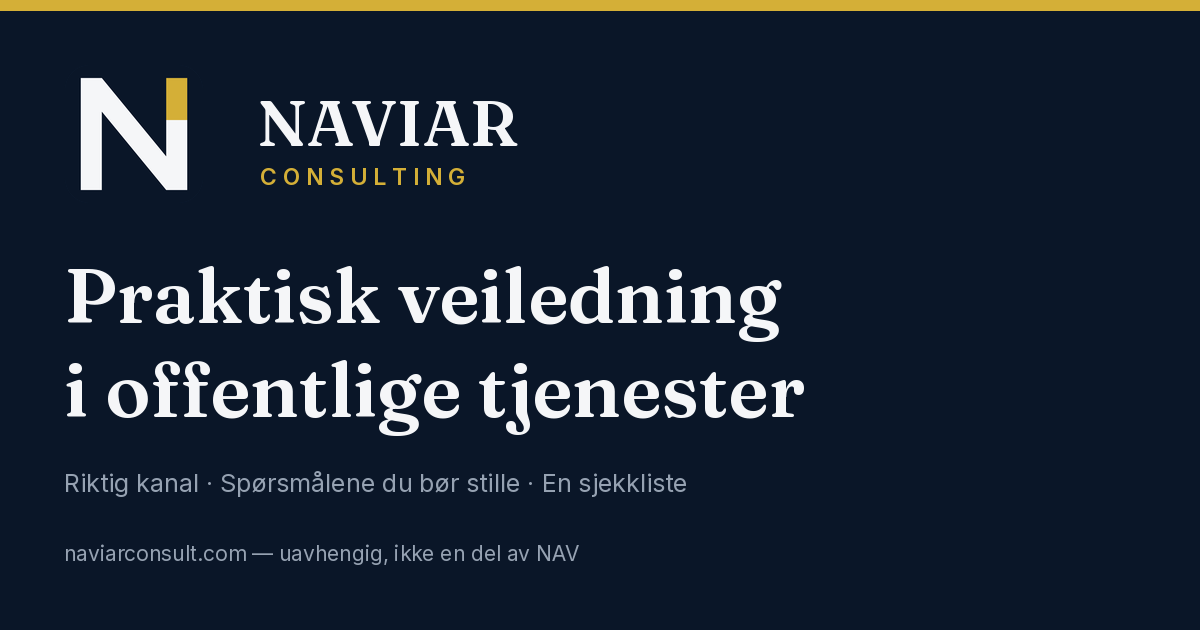
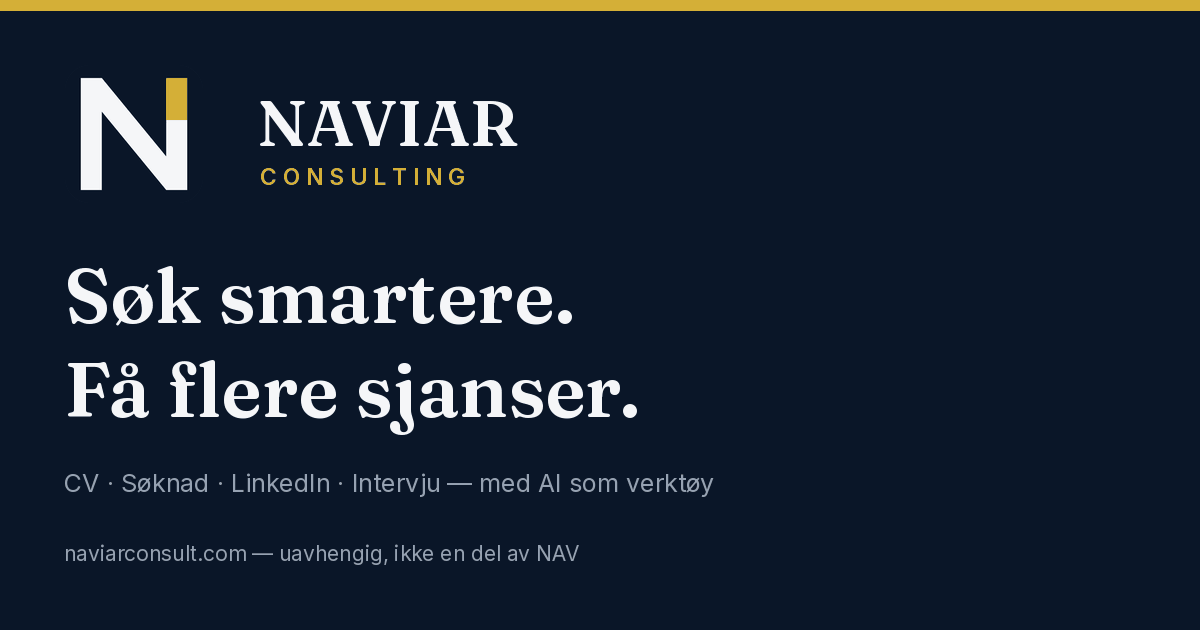
Update the share card to what the site now sells, and shrink the images
The Open Graph card still said "Praktisk veiledning i offentlige tjenester" —
the proposition from two pivots ago. Anyone sharing the link would have
advertised a service that is no longer sold. It now reads "Søk smartere. Få
flere sjanser." with CV, søknad, LinkedIn and intervju underneath, and the alt
text on all five pages says the same.

Every PNG is quantised to a small palette while regenerating: the artwork is
flat brand colour, so 64 colours is lossless to the eye and 147 KB of images
became 49 KB. That is a real page-weight win, not only a deploy convenience.

vercel.json adds X-Robots-Tag: noindex to every path, plus nosniff, a referrer
policy and SAMEORIGIN framing. The noindex must come off deliberately at launch
— nothing about this site should be in a search index while the org number is
still 000 000 000 and no lawyer has read the terms.

Changed region(s): [[0.0308, 0.573, 0.6783, 0.6937], [0.0308, 0.4222, 0.6475, 0.5429], [0.0308, 0.754, 0.6167, 0.7841]]

diff --git a/index.html b/index.html
@@ -14,12 +14,12 @@
 <meta property="og:image" content="https://naviarconsult.com/assets/og/og-image.png">
 <meta property="og:image:width" content="1200">
 <meta property="og:image:height" content="630">
-<meta property="og:image:alt" content="NAVIAR CONSULTING — praktisk veiledning i offentlige tjenester.">
+<meta property="og:image:alt" content="NAVIAR CONSULTING — søk smartere, få flere sjanser. CV, søknad, LinkedIn og intervju.">
 <meta name="twitter:card" content="summary_large_image">
 <meta name="twitter:title" content="NAVIAR — Praktisk veiledning i offentlige tjenester">
 <meta name="twitter:description" content="Riktig kanal, spørsmålene du bør stille og en sjekkliste. Start med en gratis omfangskontroll.">
 <meta name="twitter:image" content="https://naviarconsult.com/assets/og/twitter-image.png">
-<meta name="twitter:image:alt" content="NAVIAR CONSULTING — praktisk veiledning i offentlige tjenester.">
+<meta name="twitter:image:alt" content="NAVIAR CONSULTING — søk smartere, få flere sjanser. CV, søknad, LinkedIn og intervju.">
 <meta property="og:title" content="NAVIAR — Clarity in complex systems">
 <meta property="og:description" content="Vi gjør offentlige prosesser enklere. Send oss brevet — få en klar handlingsplan.">
 <link rel="preconnect" href="https://fonts.googleapis.com">

diff --git a/hva-vi-gjor.html b/hva-vi-gjor.html
@@ -13,12 +13,12 @@
 <meta property="og:image" content="https://naviarconsult.com/assets/og/og-image.png">
 <meta property="og:image:width" content="1200">
 <meta property="og:image:height" content="630">
-<meta property="og:image:alt" content="NAVIAR CONSULTING — praktisk veiledning i offentlige tjenester.">
+<meta property="og:image:alt" content="NAVIAR CONSULTING — søk smartere, få flere sjanser. CV, søknad, LinkedIn og intervju.">
 <meta name="twitter:card" content="summary_large_image">
 <meta name="twitter:title" content="Hva vi kan og ikke kan gjøre — NAVIAR">
 <meta name="twitter:description" content="Nøyaktig hvor grensen går for hva NAVIAR tar på seg.">
 <meta name="twitter:image" content="https://naviarconsult.com/assets/og/twitter-image.png">
-<meta name="twitter:image:alt" content="NAVIAR CONSULTING — praktisk veiledning i offentlige tjenester.">
+<meta name="twitter:image:alt" content="NAVIAR CONSULTING — søk smartere, få flere sjanser. CV, søknad, LinkedIn og intervju.">
 <link rel="canonical" href="https://naviarconsult.com/hva-vi-gjor.html">
 <meta name="description" content="NAVIAR gir praktisk veiledning. Her står det nøyaktig hva vi tar på oss, og hva vi aldri gjør — med henvisning til reglene som gjelder.">
 <meta name="theme-color" content="#0A1628">

diff --git a/karriere.html b/karriere.html
@@ -13,12 +13,12 @@
 <meta property="og:image" content="https://naviarconsult.com/assets/og/og-image.png">
 <meta property="og:image:width" content="1200">
 <meta property="og:image:height" content="630">
-<meta property="og:image:alt" content="NAVIAR CONSULTING — praktisk veiledning i offentlige tjenester.">
+<meta property="og:image:alt" content="NAVIAR CONSULTING — søk smartere, få flere sjanser. CV, søknad, LinkedIn og intervju.">
 <meta name="twitter:card" content="summary_large_image">
 <meta name="twitter:title" content="Karriere og AI — NAVIAR">
 <meta name="twitter:description" content="CV, søknad, LinkedIn og intervju — med AI som verktøy, ikke som autopilot.">
 <meta name="twitter:image" content="https://naviarconsult.com/assets/og/twitter-image.png">
-<meta name="twitter:image:alt" content="NAVIAR CONSULTING — praktisk veiledning i offentlige tjenester.">
+<meta name="twitter:image:alt" content="NAVIAR CONSULTING — søk smartere, få flere sjanser. CV, søknad, LinkedIn og intervju.">
 <link rel="canonical" href="https://naviarconsult.com/karriere.html">
 <meta name="description" content="CV, søknad, LinkedIn og intervju — med AI som verktøy, ikke som autopilot. Du godkjenner alltid teksten, og ingenting dikteres opp.">
 <meta name="theme-color" content="#0A1628">

diff --git a/personvern.html b/personvern.html
@@ -13,12 +13,12 @@
 <meta property="og:image" content="https://naviarconsult.com/assets/og/og-image.png">
 <meta property="og:image:width" content="1200">
 <meta property="og:image:height" content="630">
-<meta property="og:image:alt" content="NAVIAR CONSULTING — praktisk veiledning i offentlige tjenester.">
+<meta property="og:image:alt" content="NAVIAR CONSULTING — søk smartere, få flere sjanser. CV, søknad, LinkedIn og intervju.">
 <meta name="twitter:card" content="summary_large_image">
 <meta name="twitter:title" content="Personvernerklæring — NAVIAR">
 <meta name="twitter:description" content="Slik behandler NAVIAR personopplysningene dine.">
 <meta name="twitter:image" content="https://naviarconsult.com/assets/og/twitter-image.png">
-<meta name="twitter:image:alt" content="NAVIAR CONSULTING — praktisk veiledning i offentlige tjenester.">
+<meta name="twitter:image:alt" content="NAVIAR CONSULTING — søk smartere, få flere sjanser. CV, søknad, LinkedIn og intervju.">
 <link rel="canonical" href="https://naviarconsult.com/personvern.html">
 <meta name="description" content="Hvilke opplysninger NAVIAR samler inn, hvorfor, hvor lenge vi lagrer dem og hvilke rettigheter du har.">
 <meta name="theme-color" content="#0A1628">

diff --git a/vilkar.html b/vilkar.html
@@ -13,12 +13,12 @@
 <meta property="og:image" content="https://naviarconsult.com/assets/og/og-image.png">
 <meta property="og:image:width" content="1200">
 <meta property="og:image:height" content="630">
-<meta property="og:image:alt" content="NAVIAR CONSULTING — praktisk veiledning i offentlige tjenester.">
+<meta property="og:image:alt" content="NAVIAR CONSULTING — søk smartere, få flere sjanser. CV, søknad, LinkedIn og intervju.">
 <meta name="twitter:card" content="summary_large_image">
 <meta name="twitter:title" content="Vilkår — NAVIAR">
 <meta name="twitter:description" content="Vilkårene for NAVIARs tjenester.">
 <meta name="twitter:image" content="https://naviarconsult.com/assets/og/twitter-image.png">
-<meta name="twitter:image:alt" content="NAVIAR CONSULTING — praktisk veiledning i offentlige tjenester.">
+<meta name="twitter:image:alt" content="NAVIAR CONSULTING — søk smartere, få flere sjanser. CV, søknad, LinkedIn og intervju.">
 <link rel="canonical" href="https://naviarconsult.com/vilkar.html">
 <meta name="description" content="Vilkårene for NAVIARs tjenester: hva vi gjør og ikke gjør, priser, angrerett, ansvar og klage.">
 <meta name="theme-color" content="#0A1628">
